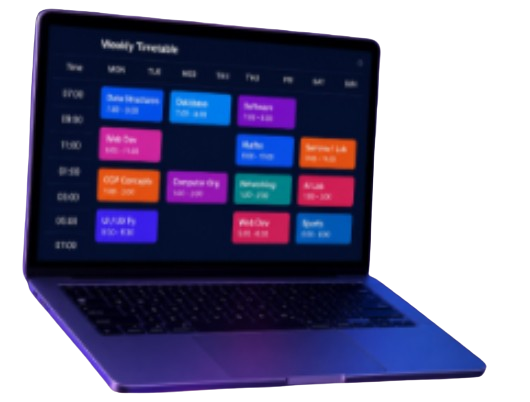
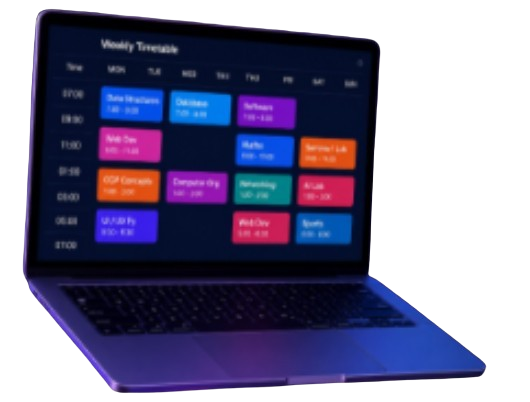
login pg changes

Changed region(s): [[0.483, 0.9552, 0.5132, 0.9851]]

diff --git a/website/src/components/features/AnimatedVisual.tsx b/website/src/components/features/AnimatedVisual.tsx
@@ -10,7 +10,7 @@ const bubbleItems = [
         <path d="M8.5 16H15.5" stroke="#ffffff" strokeWidth="1.6" strokeLinecap="round" />
       </svg>
     ),
-    className: 'top-[60%] left-1/2 -translate-x-1/2 w-16 h-16 animate-float-a',
+    className: 'top-[64%] left-1/2 -translate-x-1/2 w-16 h-16 animate-float-a',
     bgColor: 'from-orange-400 via-orange-500 to-orange-600',
   },
   {
@@ -20,7 +20,7 @@ const bubbleItems = [
         <path d="M19 18H6a4 4 0 010-8c.6 0 1.15.14 1.65.37A6 6 0 1120 16h-1z" fill="white" opacity="0.95" />
       </svg>
     ),
-    className: 'top-14 left-4 w-16 h-16 animate-float-d',
+    className: 'top-12 left-8 w-16 h-16 animate-float-d',
     bgColor: 'from-violet-500 via-purple-500 to-purple-600',
   },
   {
@@ -33,7 +33,7 @@ const bubbleItems = [
         <path d="M8.5 12H15.5" stroke="#ffffff" strokeWidth="1.6" strokeLinecap="round" />
       </svg>
     ),
-    className: 'top-[42%] left-6 w-16 h-16 animate-float-c',
+    className: 'top-12 right-8 w-16 h-16 animate-float-c',
     bgColor: 'from-emerald-500 via-emerald-400 to-lime-500',
   },
   {
@@ -44,7 +44,7 @@ const bubbleItems = [
         <circle cx="12" cy="9" r="2.5" fill="white" />
       </svg>
     ),
-    className: 'top-10 right-6 w-16 h-16 animate-float-d',
+    className: 'top-[44%] left-2 w-16 h-16 animate-float-b',
     bgColor: 'from-sky-500 via-cyan-500 to-blue-500',
   },
   {
@@ -55,7 +55,7 @@ const bubbleItems = [
         <path d="M18 16v-5c0-3.07-1.63-5.64-4.5-6.32V4a1.5 1.5 0 10-3 0v.68C7.63 5.36 6 7.92 6 11v5l-1 1v1h14v-1l-1-1z" fill="#ffffff" />
       </svg>
     ),
-    className: 'top-[66%] right-6 w-16 h-16 animate-float-b',
+    className: 'top-[44%] right-2 w-16 h-16 animate-float-b',
     bgColor: 'from-pink-500 via-fuchsia-500 to-rose-500',
   },
 ]
@@ -64,14 +64,13 @@ export default function AnimatedVisual({ laptopImg }: { laptopImg: string }) {
   return (
     <div className="relative w-full overflow-visible px-4 lg:px-0">
       <div className="absolute inset-0 flex items-center justify-center pointer-events-none">
-        <div className="absolute w-[500px] h-[500px] rounded-full border border-white/15 opacity-30 animate-orbit-spin" />
-        <div className="absolute w-[380px] h-[380px] rounded-full border border-[#8b5cf6]/40 border-dashed opacity-35 animate-orbit-spin-reverse" />
-        <div className="absolute w-[280px] h-[280px] rounded-full border border-[#60a5fa]/25 opacity-25" />
-
-        <div className="absolute left-1/2 top-1/2 h-0 w-0 -translate-x-1/2 -translate-y-1/2">
-          <span className="absolute w-3 h-3 rounded-full bg-[#a855f7] opacity-95 orbit-dot-1" style={{ left: '50%', top: '0%' }} />
-          <span className="absolute w-2.5 h-2.5 rounded-full bg-[#8b5cf6] opacity-85 orbit-dot-2" style={{ left: '100%', top: '50%' }} />
-          <span className="absolute w-2 h-2 rounded-full bg-[#7c3aed] opacity-80 orbit-dot-3" style={{ left: '0%', top: '50%' }} />
+        <div className="absolute w-[460px] h-[460px] rounded-full border border-violet-400/25 opacity-35" />
+        <div className="absolute w-[456px] h-[456px] rounded-full border border-violet-300/30 border-dashed opacity-45" />
+        <div className="absolute w-[456px] h-[456px] rounded-full">
+          <span className="absolute w-2.5 h-2.5 rounded-full bg-violet-300 opacity-90 shadow-[0_0_18px_rgba(148,163,255,0.4)]" style={{ left: '50%', top: '2%', transform: 'translateX(-50%)' }} />
+          <span className="absolute w-2.5 h-2.5 rounded-full bg-violet-300 opacity-90 shadow-[0_0_18px_rgba(148,163,255,0.4)]" style={{ left: '50%', bottom: '2%', transform: 'translateX(-50%)' }} />
+          <span className="absolute w-2.5 h-2.5 rounded-full bg-violet-300 opacity-90 shadow-[0_0_18px_rgba(148,163,255,0.4)]" style={{ left: '2%', top: '50%', transform: 'translateY(-50%)' }} />
+          <span className="absolute w-2.5 h-2.5 rounded-full bg-violet-300 opacity-90 shadow-[0_0_18px_rgba(148,163,255,0.4)]" style={{ right: '2%', top: '50%', transform: 'translateY(-50%)' }} />
         </div>
       </div>
 

diff --git a/website/src/pages/LoginPage.tsx b/website/src/pages/LoginPage.tsx
@@ -1,6 +1,6 @@
 import { useState } from "react";
 import cityBg from "@/assets/city-bg.jpg";
-import laptopImg from "@/assets/azhly-azhly-laptop.png";
+import laptopImg from "@/assets/laptop.png";
 import AnimatedVisual from "@/components/features/AnimatedVisual";
 import LoginCard from "@/components/features/LoginCard";
 